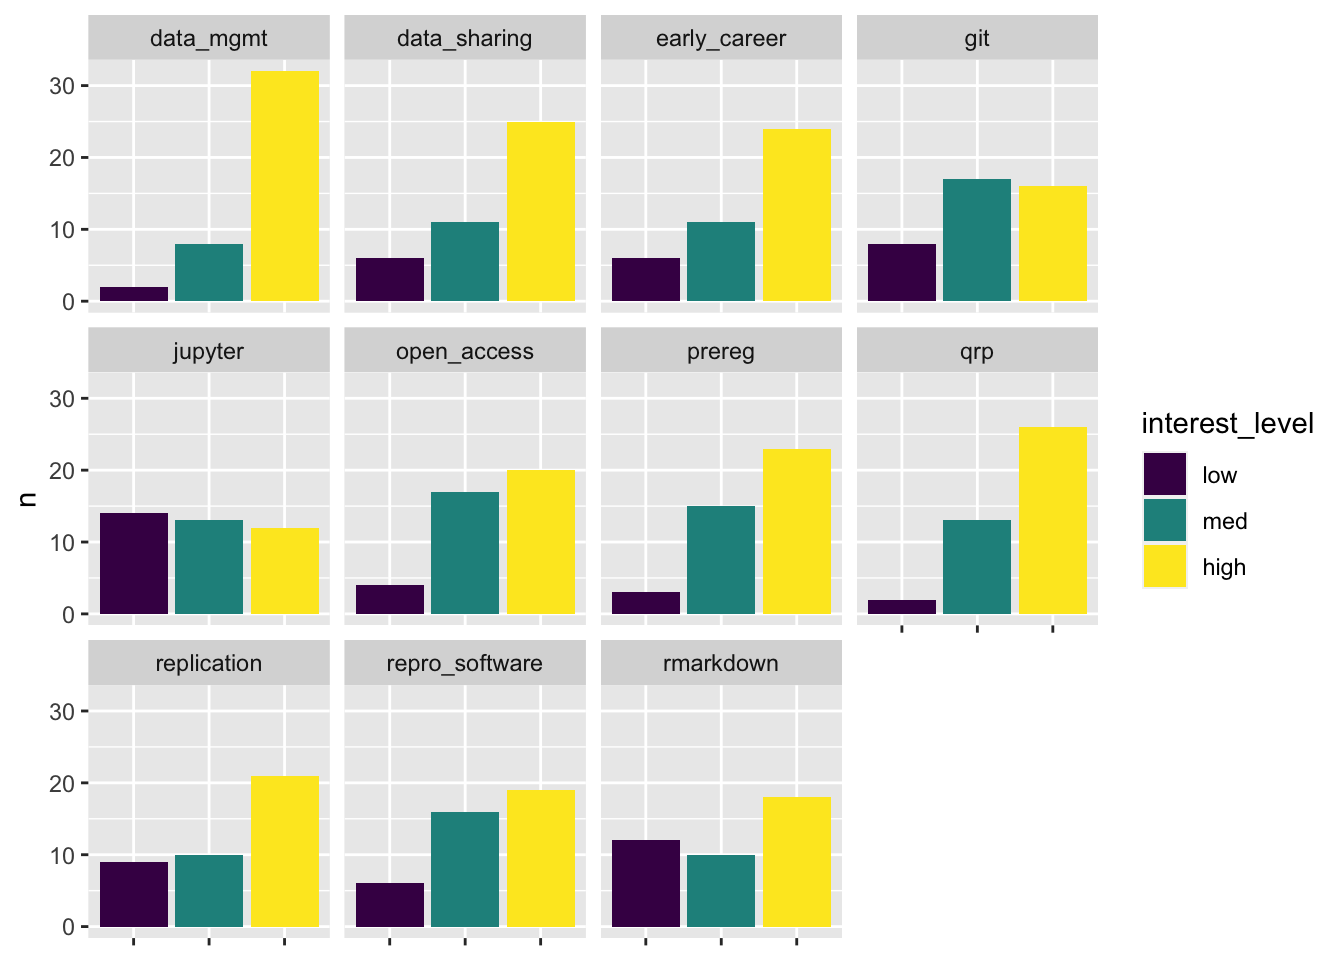
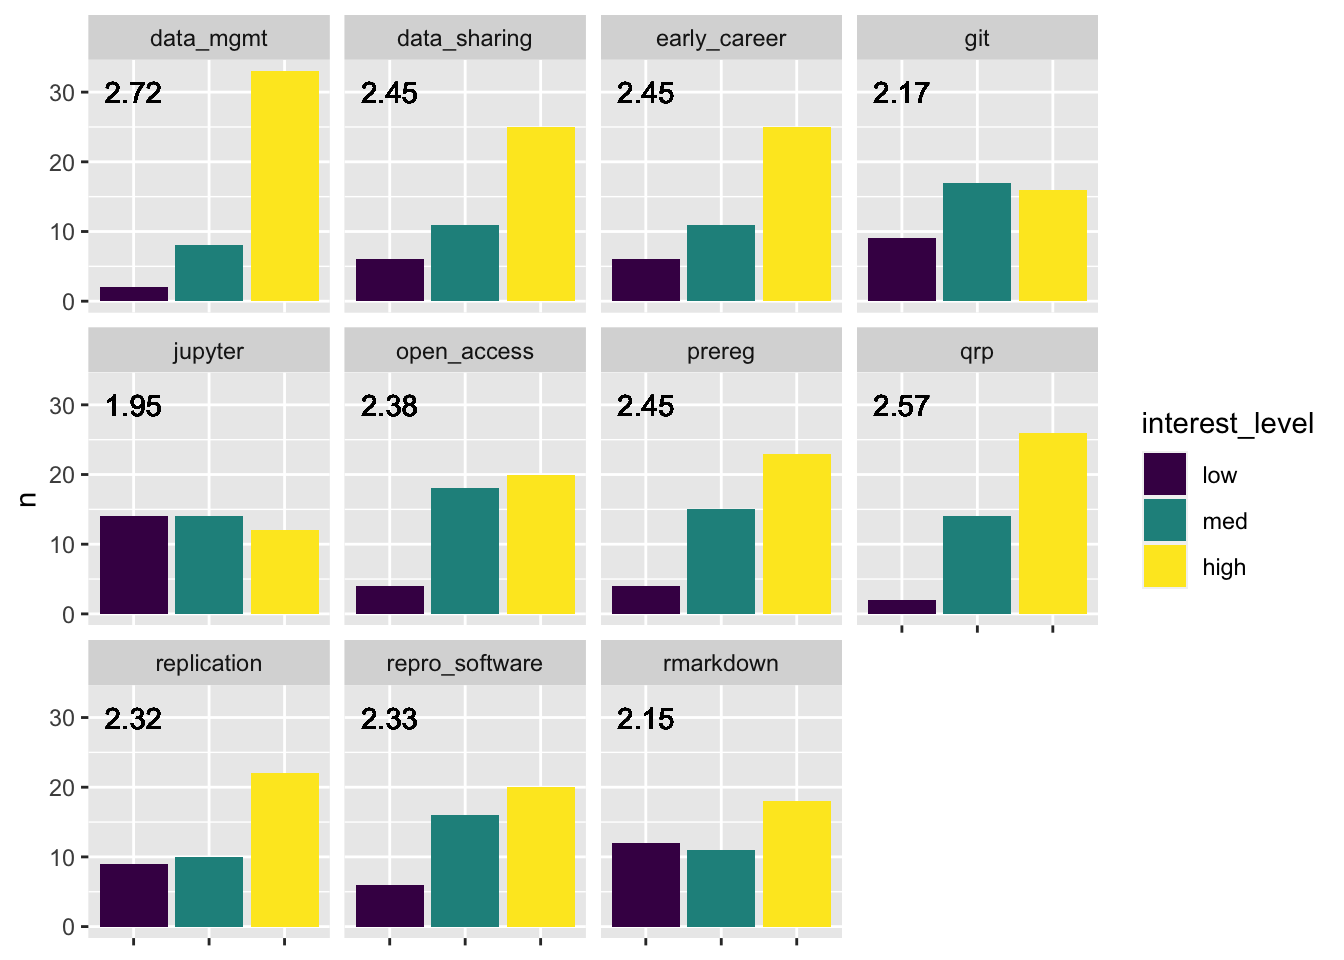
Add mean interest scores to plot.

diff --git a/docs/attendee-surveys.html b/docs/attendee-surveys.html
@@ -6,15 +6,15 @@
 <meta name="viewport" content="width=device-width, initial-scale=1, shrink-to-fit=no">
 <title>Attendee surveys | Open Science Bootcamp 2023</title>
 <meta name="author" content="The 2023 Bootcamp Program Planning Committee">
-<meta name="description" content="This page summarizes the data collected from prospective and actual Bootcamp attendees. Survey 1 - May 1, 2023 Render date: 2023-05-05 11:32:58 Survey link:...">
+<meta name="description" content="This page summarizes the data collected from prospective and actual Bootcamp attendees. Survey 1 - May 1, 2023 Render date: 2023-05-09 09:25:43 Survey link:...">
 <meta name="generator" content="bookdown 0.33 with bs4_book()">
 <meta property="og:title" content="Attendee surveys | Open Science Bootcamp 2023">
 <meta property="og:type" content="book">
 <meta property="og:url" content="https://penn-state-open-science.github.io/bootcamp-2023/attendee-surveys.html">
-<meta property="og:description" content="This page summarizes the data collected from prospective and actual Bootcamp attendees. Survey 1 - May 1, 2023 Render date: 2023-05-05 11:32:58 Survey link:...">
+<meta property="og:description" content="This page summarizes the data collected from prospective and actual Bootcamp attendees. Survey 1 - May 1, 2023 Render date: 2023-05-09 09:25:43 Survey link:...">
 <meta name="twitter:card" content="summary">
 <meta name="twitter:title" content="Attendee surveys | Open Science Bootcamp 2023">
-<meta name="twitter:description" content="This page summarizes the data collected from prospective and actual Bootcamp attendees. Survey 1 - May 1, 2023 Render date: 2023-05-05 11:32:58 Survey link:...">
+<meta name="twitter:description" content="This page summarizes the data collected from prospective and actual Bootcamp attendees. Survey 1 - May 1, 2023 Render date: 2023-05-09 09:25:43 Survey link:...">
 <!-- JS --><script src="https://cdnjs.cloudflare.com/ajax/libs/clipboard.js/2.0.6/clipboard.min.js" integrity="sha256-inc5kl9MA1hkeYUt+EC3BhlIgyp/2jDIyBLS6k3UxPI=" crossorigin="anonymous"></script><script src="https://cdnjs.cloudflare.com/ajax/libs/fuse.js/6.4.6/fuse.js" integrity="sha512-zv6Ywkjyktsohkbp9bb45V6tEMoWhzFzXis+LrMehmJZZSys19Yxf1dopHx7WzIKxr5tK2dVcYmaCk2uqdjF4A==" crossorigin="anonymous"></script><script src="https://kit.fontawesome.com/6ecbd6c532.js" crossorigin="anonymous"></script><script src="libs/jquery-3.6.0/jquery-3.6.0.min.js"></script><meta name="viewport" content="width=device-width, initial-scale=1, shrink-to-fit=no">
 <link href="libs/bootstrap-4.6.0/bootstrap.min.css" rel="stylesheet">
 <script src="libs/bootstrap-4.6.0/bootstrap.bundle.min.js"></script><script src="libs/bs3compat-0.4.2/transition.js"></script><script src="libs/bs3compat-0.4.2/tabs.js"></script><script src="libs/bs3compat-0.4.2/bs3compat.js"></script><link href="libs/bs4_book-1.0.0/bs4_book.css" rel="stylesheet">
@@ -95,7 +95,7 @@
 <div id="survey-1---may-1-2023" class="section level2 unnumbered">
 <h2>Survey 1 - May 1, 2023<a class="anchor" aria-label="anchor" href="#survey-1---may-1-2023"><i class="fas fa-link"></i></a>
 </h2>
-<p>Render date: 2023-05-05 11:32:58</p>
+<p>Render date: 2023-05-09 09:25:43</p>
 <p>Survey link: <a href="https://docs.google.com/forms/d/e/1FAIpQLSf_hIVQz3CoDq2bzjTNExw-Hn6uXLAf8ri4v8k5lRkifclxsQ/viewform?usp=sf_link" class="uri">https://docs.google.com/forms/d/e/1FAIpQLSf_hIVQz3CoDq2bzjTNExw-Hn6uXLAf8ri4v8k5lRkifclxsQ/viewform?usp=sf_link</a></p>
 <iframe src="https://docs.google.com/forms/d/e/1FAIpQLSf_hIVQz3CoDq2bzjTNExw-Hn6uXLAf8ri4v8k5lRkifclxsQ/viewform?embedded=true" width="640" height="1321" frameborder="0" marginheight="0" marginwidth="0">
 Loading…
@@ -104,7 +104,6 @@ Loading…
 <h3>Results<a class="anchor" aria-label="anchor" href="#results"><i class="fas fa-link"></i></a>
 </h3>
 <p>Download.</p>
-<pre><code>## Auto-refreshing stale OAuth token.</code></pre>
 <pre><code>## File downloaded:</code></pre>
 <pre><code>## • 'Open Science Bootcamp 2023 (Responses)'
 ##   &lt;id: 17Rd9rxVKmNPQezRJjrWMpa7aE8KtCfMggXi-Pv18Nzc&gt;</code></pre>
@@ -181,6 +180,11 @@ Prepping data for sharing / Data curation would be really useful. Containerizati
 Electrophoresis, Electrochemical impedence spectroscopy
 </td>
 </tr>
+<tr>
+<td style="text-align:left;">
+Basics in Data visualization using R
+</td>
+</tr>
 </tbody>
 </table></div>
 </div>
@@ -213,7 +217,7 @@ Electrophoresis, Electrochemical impedence spectroscopy
 <footer class="bg-primary text-light mt-5"><div class="container"><div class="row">
 
   <div class="col-12 col-md-6 mt-3">
-    <p>"<strong>Open Science Bootcamp 2023</strong>" was written by The 2023 Bootcamp Program Planning Committee. It was last built on 2023-05-05.</p>
+    <p>"<strong>Open Science Bootcamp 2023</strong>" was written by The 2023 Bootcamp Program Planning Committee. It was last built on 2023-05-09.</p>
   </div>
 
   <div class="col-12 col-md-6 mt-3">

diff --git a/docs/index.html b/docs/index.html
@@ -120,13 +120,13 @@ The Marriott Foundation Building is located just north of the Nittany Lion Inn, 
 <h4>Marriott Foundation Building<a class="anchor" aria-label="anchor" href="#marriott-fdn-bldg"><i class="fas fa-link"></i></a>
 </h4>
 <div class="figure" style="text-align: center">
-<span style="display:block;" id="fig:unnamed-chunk-2"></span>
+<span style="display:block;" id="fig:unnamed-chunk-13"></span>
 <img src="https://psu-gatsby-files-prod.s3.amazonaws.com/s3fs-public/styles/4_3_2000w/public/Oak%20Building.jpeg?h=71976bb4&amp;itok=AOCn0pbO" alt="Marriott Foundation Building" width="100%"><p class="caption">
 Figure 1: Marriott Foundation Building
 </p>
 </div>
 <div class="figure" style="text-align: center">
-<span style="display:block;" id="fig:unnamed-chunk-3"></span>
+<span style="display:block;" id="fig:unnamed-chunk-14"></span>
 <iframe src="https://www.map.psu.edu/?id=1134#!ct/59509,33177,25403,26748,26749,26750,27255?m/336393?s/" width="100%" height="400px" data-external="1">
 </iframe>
 <p class="caption">
@@ -139,13 +139,13 @@ Figure 2: Marriott Foundation Building location from <a href="https://www.map.ps
 </h4>
 <p>Some breakout sessions will be held in 115 Keller Building on <a href="day_2.html#day_2">Thursday, August 10</a> and <a href="day_3.html#day_3">Friday, August 11</a>.</p>
 <div class="figure" style="text-align: center">
-<span style="display:block;" id="fig:unnamed-chunk-4"></span>
+<span style="display:block;" id="fig:unnamed-chunk-15"></span>
 <img src="https://la.psu.edu/wp-content/uploads/sites/2/2022/11/Keller-Building-April-2022-01.jpg" alt="Keller Building" width="100%"><p class="caption">
 Figure 3: Keller Building
 </p>
 </div>
 <div class="figure" style="text-align: center">
-<span style="display:block;" id="fig:unnamed-chunk-5"></span>
+<span style="display:block;" id="fig:unnamed-chunk-16"></span>
 <iframe src="https://map.psu.edu/?id=1134#!m/272192?s/" width="100%" height="400px" data-external="1">
 </iframe>
 <p class="caption">
@@ -203,7 +203,7 @@ Figure 4: Keller Building location from <a href="https://www.map.psu.edu" class=
 <footer class="bg-primary text-light mt-5"><div class="container"><div class="row">
 
   <div class="col-12 col-md-6 mt-3">
-    <p>"<strong>Open Science Bootcamp 2023</strong>" was written by The 2023 Bootcamp Program Planning Committee. It was last built on 2023-05-05.</p>
+    <p>"<strong>Open Science Bootcamp 2023</strong>" was written by The 2023 Bootcamp Program Planning Committee. It was last built on 2023-05-09.</p>
   </div>
 
   <div class="col-12 col-md-6 mt-3">

diff --git a/docs/presentation-topics.html b/docs/presentation-topics.html
@@ -94,7 +94,7 @@
 <p>The following are potential presentation topics we are considering for <a href="day_1.html#day_1">Day 1</a> and <a href="day_2.html#day_2">Day 2</a>.</p>
 <p>These are also topics that might be offered later on after the bootcamp.</p>
 <p>Some of the presentations have been suggsted by a specific person, and others are topics that Rick Gilmore thought might be appropriate for a person or group.
-The person indicated in the parentheses is the tentative or proposed coordinator for that workshop as of 2023-05-05.
+The person indicated in the parentheses is the tentative or proposed coordinator for that workshop as of 2023-05-09.
 Question marks (?) indicate that the person has not yet confirmed their interest or availability.
 The information is merely for planning purposes.</p>
 <div id="what-is-open-science-why-do-open-science" class="section level2 unnumbered">
@@ -283,7 +283,7 @@ This workshop will demonstrate how researchers can use the <a href="https://osf.
 <footer class="bg-primary text-light mt-5"><div class="container"><div class="row">
 
   <div class="col-12 col-md-6 mt-3">
-    <p>"<strong>Open Science Bootcamp 2023</strong>" was written by The 2023 Bootcamp Program Planning Committee. It was last built on 2023-05-05.</p>
+    <p>"<strong>Open Science Bootcamp 2023</strong>" was written by The 2023 Bootcamp Program Planning Committee. It was last built on 2023-05-09.</p>
   </div>
 
   <div class="col-12 col-md-6 mt-3">

diff --git a/docs/references.html b/docs/references.html
@@ -129,7 +129,7 @@ Wilson, G., Bryan, J., Cranston, K., Kitzes, J., Nederbragt, L., &amp; Teal, T. 
 <footer class="bg-primary text-light mt-5"><div class="container"><div class="row">
 
   <div class="col-12 col-md-6 mt-3">
-    <p>"<strong>Open Science Bootcamp 2023</strong>" was written by The 2023 Bootcamp Program Planning Committee. It was last built on 2023-05-05.</p>
+    <p>"<strong>Open Science Bootcamp 2023</strong>" was written by The 2023 Bootcamp Program Planning Committee. It was last built on 2023-05-09.</p>
   </div>
 
   <div class="col-12 col-md-6 mt-3">

diff --git a/docs/this-site.html b/docs/this-site.html
@@ -198,7 +198,7 @@ In our case, the URL is <a href="https://penn-state-open-science.github.io/bootc
 <footer class="bg-primary text-light mt-5"><div class="container"><div class="row">
 
   <div class="col-12 col-md-6 mt-3">
-    <p>"<strong>Open Science Bootcamp 2023</strong>" was written by The 2023 Bootcamp Program Planning Committee. It was last built on 2023-05-05.</p>
+    <p>"<strong>Open Science Bootcamp 2023</strong>" was written by The 2023 Bootcamp Program Planning Committee. It was last built on 2023-05-09.</p>
   </div>
 
   <div class="col-12 col-md-6 mt-3">

diff --git a/docs/404.html b/docs/404.html
@@ -107,7 +107,7 @@ the table of contents to find the page you are looking for.</p>
 <footer class="bg-primary text-light mt-5"><div class="container"><div class="row">
 
   <div class="col-12 col-md-6 mt-3">
-    <p>"<strong>Open Science Bootcamp 2023</strong>" was written by The 2023 Bootcamp Program Planning Committee. It was last built on 2023-05-05.</p>
+    <p>"<strong>Open Science Bootcamp 2023</strong>" was written by The 2023 Bootcamp Program Planning Committee. It was last built on 2023-05-09.</p>
   </div>
 
   <div class="col-12 col-md-6 mt-3">

diff --git a/docs/day_2.html b/docs/day_2.html
@@ -150,7 +150,7 @@ Locations and topics will be announced later.</p>
 <footer class="bg-primary text-light mt-5"><div class="container"><div class="row">
 
   <div class="col-12 col-md-6 mt-3">
-    <p>"<strong>Open Science Bootcamp 2023</strong>" was written by The 2023 Bootcamp Program Planning Committee. It was last built on 2023-05-05.</p>
+    <p>"<strong>Open Science Bootcamp 2023</strong>" was written by The 2023 Bootcamp Program Planning Committee. It was last built on 2023-05-09.</p>
   </div>
 
   <div class="col-12 col-md-6 mt-3">

diff --git a/docs/day_1.html b/docs/day_1.html
@@ -149,7 +149,7 @@
 <footer class="bg-primary text-light mt-5"><div class="container"><div class="row">
 
   <div class="col-12 col-md-6 mt-3">
-    <p>"<strong>Open Science Bootcamp 2023</strong>" was written by The 2023 Bootcamp Program Planning Committee. It was last built on 2023-05-05.</p>
+    <p>"<strong>Open Science Bootcamp 2023</strong>" was written by The 2023 Bootcamp Program Planning Committee. It was last built on 2023-05-09.</p>
   </div>
 
   <div class="col-12 col-md-6 mt-3">

diff --git a/docs/day_3.html b/docs/day_3.html
@@ -148,7 +148,7 @@
 <footer class="bg-primary text-light mt-5"><div class="container"><div class="row">
 
   <div class="col-12 col-md-6 mt-3">
-    <p>"<strong>Open Science Bootcamp 2023</strong>" was written by The 2023 Bootcamp Program Planning Committee. It was last built on 2023-05-05.</p>
+    <p>"<strong>Open Science Bootcamp 2023</strong>" was written by The 2023 Bootcamp Program Planning Committee. It was last built on 2023-05-09.</p>
   </div>
 
   <div class="col-12 col-md-6 mt-3">

diff --git a/docs/presenters.html b/docs/presenters.html
@@ -130,7 +130,7 @@
 <footer class="bg-primary text-light mt-5"><div class="container"><div class="row">
 
   <div class="col-12 col-md-6 mt-3">
-    <p>"<strong>Open Science Bootcamp 2023</strong>" was written by The 2023 Bootcamp Program Planning Committee. It was last built on 2023-05-05.</p>
+    <p>"<strong>Open Science Bootcamp 2023</strong>" was written by The 2023 Bootcamp Program Planning Committee. It was last built on 2023-05-09.</p>
   </div>
 
   <div class="col-12 col-md-6 mt-3">

diff --git a/docs/program-planning-committee.html b/docs/program-planning-committee.html
@@ -202,7 +202,7 @@
 <footer class="bg-primary text-light mt-5"><div class="container"><div class="row">
 
   <div class="col-12 col-md-6 mt-3">
-    <p>"<strong>Open Science Bootcamp 2023</strong>" was written by The 2023 Bootcamp Program Planning Committee. It was last built on 2023-05-05.</p>
+    <p>"<strong>Open Science Bootcamp 2023</strong>" was written by The 2023 Bootcamp Program Planning Committee. It was last built on 2023-05-09.</p>
   </div>
 
   <div class="col-12 col-md-6 mt-3">

diff --git a/docs/resources-penn-state.html b/docs/resources-penn-state.html
@@ -175,7 +175,7 @@
 <footer class="bg-primary text-light mt-5"><div class="container"><div class="row">
 
   <div class="col-12 col-md-6 mt-3">
-    <p>"<strong>Open Science Bootcamp 2023</strong>" was written by The 2023 Bootcamp Program Planning Committee. It was last built on 2023-05-05.</p>
+    <p>"<strong>Open Science Bootcamp 2023</strong>" was written by The 2023 Bootcamp Program Planning Committee. It was last built on 2023-05-09.</p>
   </div>
 
   <div class="col-12 col-md-6 mt-3">
